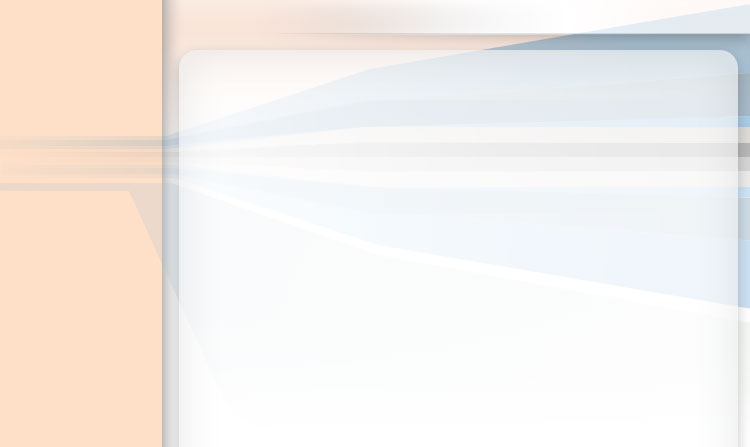
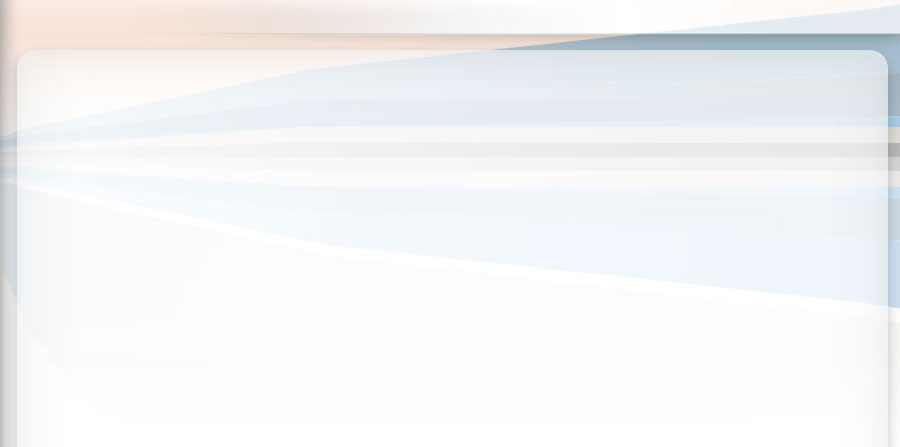
updated for 900px width standard
git-svn-id: svn://svn.liferay.com/repos/public/plugins/trunk@10226 05bdf26c-840f-0410-9ced-eb539d925f36

diff --git a/themes/andreas-06-theme/docroot/_diffs/css/custom.css b/themes/andreas-06-theme/docroot/_diffs/css/custom.css
@@ -63,7 +63,7 @@ body {
 #wrapper {
  margin : 0 auto ;
  text-align : left ;
- width : 752px ;
+ width : 900px ;
 }
 
 #banner {
@@ -98,7 +98,7 @@ body {
 
 #navigation {
  background : url('../images/navigation/bg.gif') bottom left repeat-x ;
- width : 752px ;
+ width : 900px ;
 }
 #navigation ul {
  display : block ;
@@ -108,7 +108,7 @@ body {
  display : block ;
  float : left ;
  background : url('../images/navigation/tabs.gif') no-repeat 0 0 ;
- margin : 0 4px 0 0 ;
+ margin : 0 4px 1px 0 ;
  padding : 0 0 0 9px ;
 }
 #navigation ul li.selected
@@ -129,7 +129,9 @@ body {
 #navigation ul li.selected a {
  background : url('../images/navigation/tabs.gif') no-repeat 100% -41px ;
  color : #303030 ;
- padding : 7px 20px 5px 11px ;
+}
+#navigation ul li.selected a:hover {
+ background : url('../images/navigation/tabs.gif') no-repeat 100% -41px ;
 }
 #navigation ul li a span , #navigation ul li a:hover span , #navigation ul li.selected a span , #navigation ul li.selected a:hover span , .js #add-page a span , .js #add-page a:hover span {
  display : block ;
@@ -153,7 +155,8 @@ body {
  border-left : 1px solid #808080 ;
  border-right : 1px solid #808080 ;
  clear : both ;
- width : 750px ;
+ padding: 50px 40px;
+ width : 820px ;
 }
 
 .portlet {
@@ -167,21 +170,6 @@ body {
 }
 .portlet-content {
  margin : 8px 0pt 0pt 10px ;
-}
-
-.columns-1 #column-1 {
- margin : 50px 0 0 200px ;
- width : 520px ;
-}
-.columns-2 #column-1 {
- padding : 0 30px 0 0 ;
- width : 190px ;
- overflow : hidden ;
-}
-.columns-2 #column-2 {
- padding : 50px 20px 0 0 ;
- width : 590px ;
- overflow : hidden ;
 }
 
 #footer {
